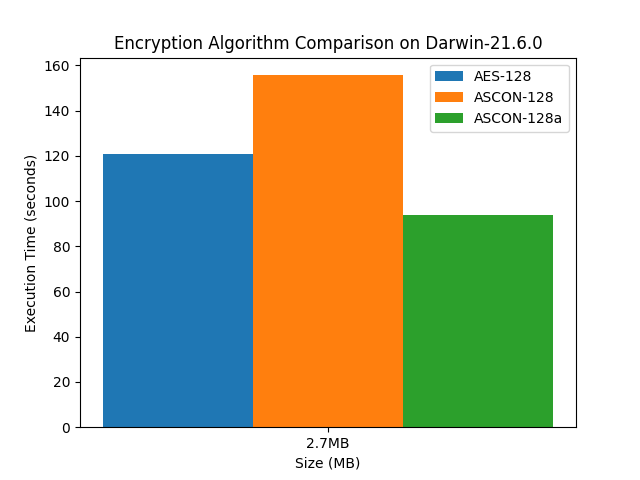
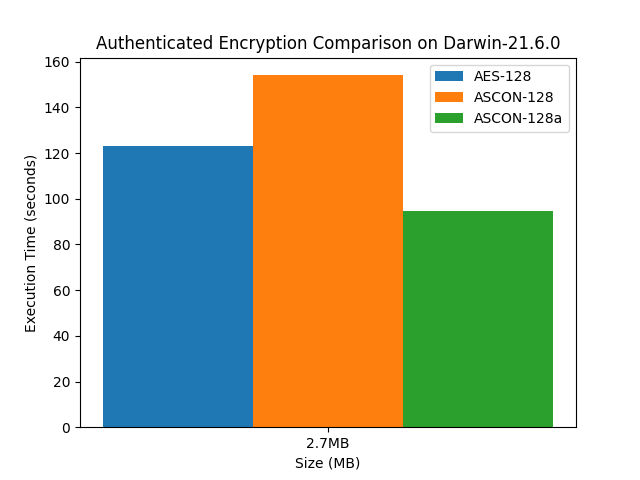
Perform benchmarks without associated data in ASCON

diff --git a/benchmark.py b/benchmark.py
@@ -46,7 +46,7 @@ def benchmark_aes(key, data):
 
 def benchmark_ascon(key, data, variant="Ascon-128"):
     nonce = generate_binary_data(16)
-    associateddata = generate_binary_data(32)
+    associateddata = generate_binary_data(0)
 
     profiler = cProfile.Profile()
     profiler.enable()
@@ -138,7 +138,7 @@ def generate_bar_chart(json_data, system_info, input_type):
     # Add labels, title, and legend
     ax.set_xlabel('Size (MB)')
     ax.set_ylabel('Execution Time (seconds)')
-    ax.set_title('Encryption Algorithm Comparison on ' + system_info)
+    ax.set_title('Authenticated Encryption Comparison on ' + system_info)
     ax.set_xticks([i + bar_width for i in index])
     ax.set_xticklabels(sizes)
     ax.legend()
